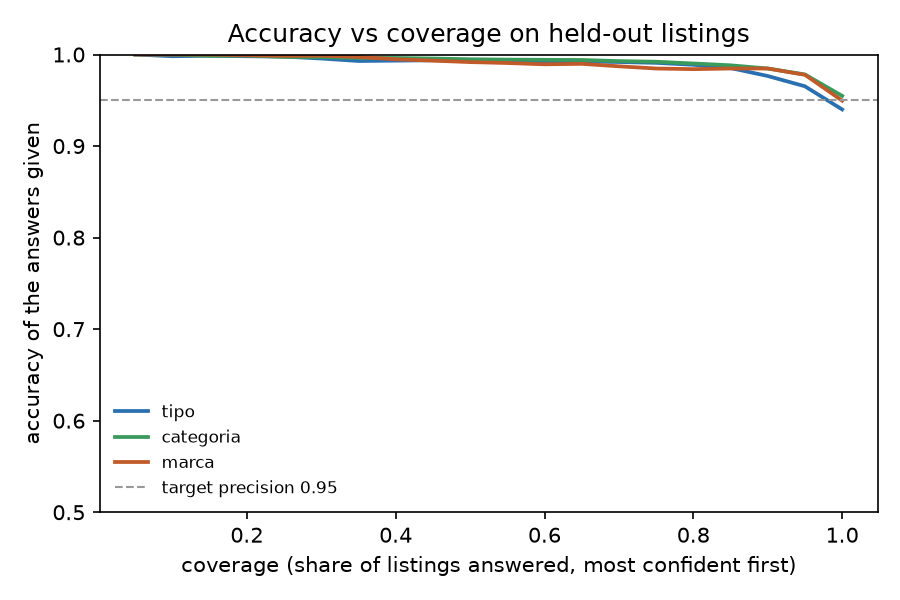
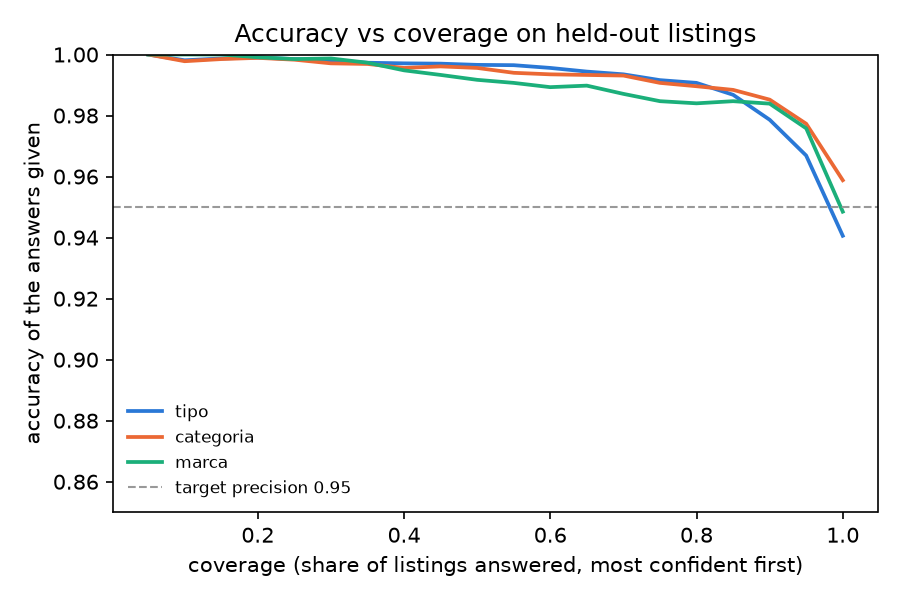
Refresh evaluation reports for the final models
Re-run of `pm evaluate` after the switch to sparse extraction classifiers
(type/category/brand change by under half a point; all other numbers are
identical across runs). Figures use a fixed color order: blue = new,
orange = 2022.

diff --git a/src/product_matching/evaluate.py b/src/product_matching/evaluate.py
@@ -171,8 +171,8 @@ def _plot_reliability(rel_new: dict, rel_legacy: dict) -> None:
     fig, ax = plt.subplots(figsize=(5, 5))
     ax.plot([0, 1], [0, 1], color="#999999", lw=1, ls="--", label="perfect calibration")
     for rel, label, color in (
-        (rel_legacy, "2022: cosine similarity", "#c05a28"),
-        (rel_new, "new: calibrated model", "#2a6fb0"),
+        (rel_legacy, "2022: cosine similarity", "#eb6834"),
+        (rel_new, "new: calibrated model", "#2a78d6"),
     ):
         xs = [b["mean_pred"] for b in rel["bins"]]
         ys = [b["observed"] for b in rel["bins"]]
@@ -311,7 +311,7 @@ def _plot_coverage(curves: dict, thresholds: dict) -> None:
     fig_dir = REPORTS_DIR / "figures"
     fig_dir.mkdir(parents=True, exist_ok=True)
     fig, ax = plt.subplots(figsize=(6, 4))
-    colors = {"tipo": "#2a6fb0", "categoria": "#3a9a5b", "marca": "#c05a28"}
+    colors = {"tipo": "#2a78d6", "categoria": "#eb6834", "marca": "#1baf7a"}
     for fname, pts in curves.items():
         ax.plot([p["coverage"] for p in pts], [p["accuracy"] for p in pts],
                 color=colors[fname], lw=1.8, label=fname)  # fmt: skip
@@ -319,7 +319,7 @@ def _plot_coverage(curves: dict, thresholds: dict) -> None:
     ax.set_xlabel("coverage (share of listings answered, most confident first)")
     ax.set_ylabel("accuracy of the answers given")
     ax.set_title("Accuracy vs coverage on held-out listings")
-    ax.set_ylim(0.5, 1.0)
+    ax.set_ylim(0.85, 1.0)
     ax.legend(frameon=False, fontsize=8, loc="lower left")
     fig.tight_layout()
     fig.savefig(fig_dir / "coverage.png", dpi=150)

diff --git a/reports/results.md b/reports/results.md
@@ -22,9 +22,9 @@ Type, category and brand are scored against the dataset's own labels on 5,299 he
 
 | Field | Classes | Majority class (overall) | 2022: answered / accuracy / overall | New: answered / accuracy / overall |
 |---|---|---|---|---|
-| tipo | 477 | 3.4% | 29.2% / 95.6% / 28.0% | 96.2% / 96.0% / **92.4%** |
-| categoria | 20 | 25.6% | 89.3% / 93.4% / 83.4% | 99.7% / 95.7% / **95.4%** |
-| marca | 1260 | 3.2% | 21.7% / 98.5% / 21.3% | 99.4% / 95.4% / **94.9%** |
+| tipo | 477 | 3.4% | 29.2% / 95.6% / 28.0% | 96.6% / 96.1% / **92.8%** |
+| categoria | 20 | 25.6% | 89.3% / 93.4% / 83.4% | 100.0% / 95.9% / **95.9%** |
+| marca | 1260 | 3.2% | 21.7% / 98.5% / 21.3% | 99.1% / 95.6% / **94.8%** |
 
 Color and model are scored against 200 hand-checked names, where None (the name does not state it) is a valid answer. *Accuracy* counts None = None as right; *precision* / *recall* are over the values that are present.
 
@@ -41,9 +41,9 @@ Color and model are scored against 200 hand-checked names, where None (the name 
 |---|---|---|---|---|
 | 2022 baseline | 0.629 [0.52, 0.73] | 0.810 [0.69, 0.90] | 0.517 | n/a |
 | BM25 | 0.847 [0.76, 0.93] | 0.930 [0.86, 0.99] | 0.779 | 0.1 ms |
-| Char n-gram TF-IDF | 0.805 [0.72, 0.88] | 0.933 [0.89, 0.97] | 0.712 | 3.4 ms |
-| Embeddings (e5-small) | 0.771 [0.67, 0.87] | 0.843 [0.76, 0.92] | 0.715 | 5.5 ms |
-| **Hybrid: BM25 + e5-small (RRF)** | 0.848 [0.77, 0.92] | 0.917 [0.84, 0.98] | 0.802 | 5.2 ms |
-| Embeddings (e5-base) | 0.712 [0.62, 0.81] | 0.783 [0.70, 0.87] | 0.638 | 14.1 ms |
+| Char n-gram TF-IDF | 0.805 [0.72, 0.88] | 0.933 [0.89, 0.97] | 0.712 | 4.0 ms |
+| Embeddings (e5-small) | 0.771 [0.67, 0.87] | 0.843 [0.76, 0.92] | 0.715 | 5.8 ms |
+| **Hybrid: BM25 + e5-small (RRF)** | 0.848 [0.77, 0.92] | 0.917 [0.84, 0.98] | 0.802 | 5.4 ms |
+| Embeddings (e5-base) | 0.712 [0.62, 0.81] | 0.783 [0.70, 0.87] | 0.638 | 47.5 ms |
 
 The best new system beats the 2022 baseline on 23 of 30 queries.
